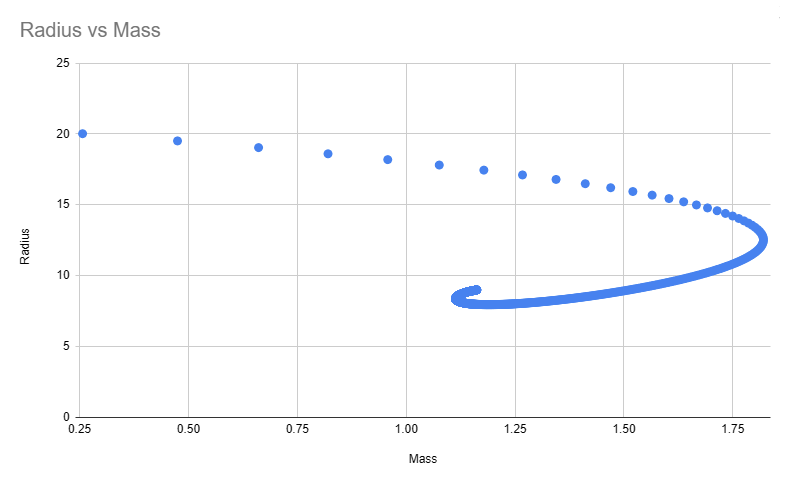
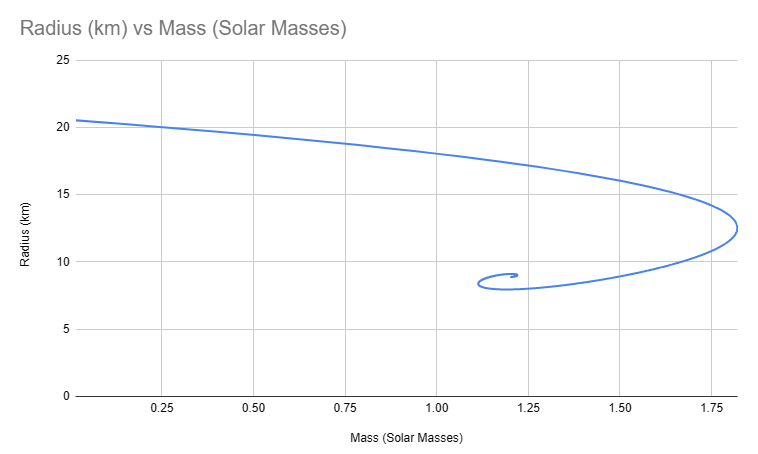
better spiral

diff --git a/code/NR4/main.cpp b/code/NR4/main.cpp
@@ -1123,6 +1123,7 @@ void solve()
     assert(false);*/
 
     //kg/m^3
+
     double paper_p0 = 6.235 * pow(10., 17.);
 
     //this is in c=g=msol, so you'd need to use make_integration_state()
@@ -1142,9 +1143,49 @@ void solve()
     //assert(false);
 }
 
+void mass_radius_curve()
+{
+    tov::parameters param;
+    param.K = 123.641;
+    param.Gamma = 2;
+
+    double adm_mass = 1.5;
+
+    double r_approx = adm_mass / 0.06;
+
+    double start_E = adm_mass / ((4./3.) * M_PI * r_approx*r_approx*r_approx);
+    double start_P = param.energy_density_to_pressure(start_E);
+    double start_density = param.pressure_to_rest_mass_density(start_P);
+
+    double rmin = 1e-6;
+
+    double min_density = start_density / 100;
+    double max_density = start_density * 2000;
+    int to_check = 20000;
+
+    std::string str = "Mass, Radius\n";
+
+    for(int i=0; i < to_check; i++)
+    {
+        double frac = (double)i / to_check;
+
+        double test_density = mix(min_density, max_density, frac);
+
+        tov::integration_state next_st = tov::make_integration_state(test_density, rmin, param);
+        tov::integration_solution next_sol = tov::solve_tov(next_st, param, rmin, 0.);
+
+        str += std::to_string(next_sol.M_msol) + ", " + std::to_string(next_sol.R_geom()/1000.) + "\n";
+
+        //std::cout << next_sol.M_msol << ", " << next_sol.R_geom() / 1000. << std::endl;
+    }
+
+    file::write("data.csv", str, file::mode::TEXT);
+}
+
 int main()
 {
     solve();
+    mass_radius_curve();
 
     render_settings sett;
     sett.width = 1280;

diff --git a/code/NR4/tov.cpp b/code/NR4/tov.cpp
@@ -255,7 +255,7 @@ std::vector<double> tov::search_for_adm_mass(double adm_mass, const parameters& 
     masses.resize(to_check);
 
     double min_density = start_density / 100;
-    double max_density = start_density * 5;
+    double max_density = start_density * 20;
 
     for(int i=0; i < to_check; i++)
     {
